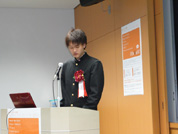
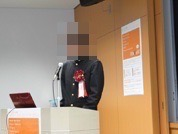
１名匿名化

diff --git a/final.html b/final.html
@@ -62,7 +62,7 @@
 					</dl>
 					<h4>優秀賞</h4>
 					<dl>
-						<dt>竹本一彦（松江商業高校）</dt>
+						<dt>ビジコン太郎（仮名）</dt>
 						<dd>うたいびと</dd>
 					</dl>
 					<h4>奨励賞<span class="note">（順不同）</span></h4>
@@ -123,12 +123,12 @@
 
 			<div class="picsline">
 				<div class="pic">
-					<a href="/biz-contest2011/images/final/13.jpg" rel="lightbox[ceremony]" title="学生部門の優秀賞に選ばれた竹本一彦様 1"><img src="/biz-contest2011/images/final/13_thumb.jpg" width="178" height="134" alt="学生部門の優秀賞に選ばれた竹本一彦様 1" /></a>
-					<span class="caption"><span class="line">学生部門の優秀賞に選ばれた</span><span class="line">竹本一彦様 1</span></span>
+					<a href="/biz-contest2011/images/final/13.jpg" rel="lightbox[ceremony]" title="学生部門の優秀賞に選ばれたビジコン太郎（仮名）様 1"><img src="/biz-contest2011/images/final/13_thumb.jpg" width="178" height="134" alt="学生部門の優秀賞に選ばれたビジコン太郎（仮名）様 1" /></a>
+					<span class="caption"><span class="line">学生部門の優秀賞に選ばれた</span><span class="line">ビジコン太郎（仮名）様 1</span></span>
 				</div>
 				<div class="pic">
-					<a href="/biz-contest2011/images/final/14.jpg" rel="lightbox[ceremony]" title="学生部門の優秀賞に選ばれた竹本一彦様 2"><img src="/biz-contest2011/images/final/14_thumb.jpg" width="178" height="134" alt="学生部門の優秀賞に選ばれた竹本一彦様 2" /></a>
-					<span class="caption"><span class="line">学生部門の優秀賞に選ばれた</span><span class="line">竹本一彦様 2</span></span>
+					<a href="/biz-contest2011/images/final/14.jpg" rel="lightbox[ceremony]" title="学生部門の優秀賞に選ばれたビジコン太郎（仮名）様 2"><img src="/biz-contest2011/images/final/14_thumb.jpg" width="178" height="134" alt="学生部門の優秀賞に選ばれたビジコン太郎（仮名）様 2" /></a>
+					<span class="caption"><span class="line">学生部門の優秀賞に選ばれた</span><span class="line">ビジコン太郎（仮名）様 2</span></span>
 				</div>
 				<div class="pic">
 					<a href="/biz-contest2011/images/final/09.jpg" rel="lightbox[ceremony]" title="ビジネス活用部門の奨励賞に選ばれた（株）イーストバック様"><img src="/biz-contest2011/images/final/09_thumb.jpg" width="178" height="134" alt="ビジネス活用部門の奨励賞に選ばれた（株）イーストバック様" /></a>

diff --git a/award.html b/award.html
@@ -45,7 +45,7 @@
 							<dd>一人暮らしの見守りツイート</dd>
 							<dt>松本・山本チーム<br />（松江工業高等専門学校）</dt>
 							<dd>着信フィルター</dd>
-							<dt>竹本一彦（松江商業）</dt>
+							<dt>ビジコン太郎（仮名）</dt>
 							<dd>うたいびと</dd>
 							<dt>片寄千里（松江商業）</dt>
 							<dd class="last">心に響くonly your hands</dd>
